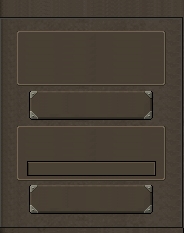
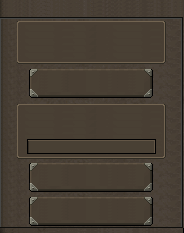
SIGIL-INFO-UI: 'Sigils Info' button in the Deadman tab (NEEDS the N108 cache round)
Panel 4 of the approved mock: a third button under Bracket Info that opens the Attuned Sigils window. To make room the
Deadman Points box is 12 rows lower and starts 10 rows higher; everything under it moves up 22 (new zz_dm_main.png, same
size and sprite id).

NOT in the cache yet and NOT seen in the test client: run N108InterfaceImportTool --apply (test server and file server
stopped) together with the build that carries this commit, then compare the tab with the mock.

Claude-Session: https://claude.ai/code/session_01FfKUn15EnwnCZxScLgeFd9

Changed region(s): [[0.0815, 0.2403, 0.9239, 0.9914], [0.0815, 0.0901, 0.9239, 0.1502]]

diff --git a/game/src/main/kotlin/gg/rsmod/game/tools/importer/N108InterfaceImportTool.kt b/game/src/main/kotlin/gg/rsmod/game/tools/importer/N108InterfaceImportTool.kt
@@ -514,11 +514,14 @@ object N108InterfaceImportTool {
         const val INFO_STRIDE = 3
         const val BACK_TEXT = INFO_FIRST + 3 * INFO_STRIDE
         const val BACK_HIT = BACK_TEXT + 1
-        const val COUNT = BACK_HIT + 1
+        /** SIGIL-INFO-UI (owner design 21-11, sigil_venster_v3.png panel 4): the Sigils Info button under Bracket Info. */
+        const val SIGILS_TEXT = BACK_HIT + 1
+        const val SIGILS_HIT = SIGILS_TEXT + 1
+        const val COUNT = SIGILS_HIT + 1
 
-        /** The bar's inside (the mock's bar 129 x 15 at panel 27,161: fill 125 x 11). */
+        /** The bar's inside (bar 129 x 15 at panel 27,139 since the Sigils Info button moved the block up 22: fill 125 x 11). */
         const val FILL_X = 29
-        const val FILL_Y = 163
+        const val FILL_Y = 141
         const val FILL_W = 125
         const val FILL_H = 11
         const val BTN = 0xDFDFDF
@@ -526,7 +529,7 @@ object N108InterfaceImportTool {
         const val BAR = 0x965500
 
         /** The "main" state's components (hidden in Points Info) and the Points Info ones. */
-        val MAIN = listOf(DP_LABEL, DP_VALUE, POINTS_TEXT, POINTS_HIT, BRK_LABEL, BRK_VALUE, FILL_CLIP, BAR_TEXT, BRACKET_TEXT, BRACKET_HIT)
+        val MAIN = listOf(DP_LABEL, DP_VALUE, POINTS_TEXT, POINTS_HIT, BRK_LABEL, BRK_VALUE, FILL_CLIP, BAR_TEXT, BRACKET_TEXT, BRACKET_HIT, SIGILS_TEXT, SIGILS_HIT)
         val INFO = (INFO_FIRST until BACK_HIT + 1).toList()
 
         fun info(i: Int) = INFO_FIRST + i * INFO_STRIDE
@@ -539,19 +542,20 @@ object N108InterfaceImportTool {
         val b = Builder(fonts)
         b.add(Comp(0, TYPE_LAYER, 0, 0, 0, 0, -1, resizeX = 1, resizeY = 1))
         b.g(DP.BG, 0, 0, 0, "zz_dm_main")
-        // Mock positions (photo 232 x 337) minus the panel's place in it (23, 62); text tops as the mock draws them.
+        // Mock positions (photo 232 x 337) minus the panel's place in it (23, 62); text tops as the mock draws them. Since the
+        // Sigils Info button (21-11): the Deadman Points box is 12 rows lower and starts 10 rows higher, the rest moved up 22.
         b.t(DP.TITLE, 1, -1, 180, 16, 0, fonts.b12, ORANGE, "78 Deadman", alignX = 1, alignY = 0)
-        b.t(DP.DP_LABEL, 17, 40, 149, 16, 0, fonts.p12, ORANGE, "Deadman Points", alignX = 1, alignY = 0)
-        b.t(DP.DP_VALUE, 17, 61, 149, 16, 0, fonts.b12, WHITE, alignX = 1, alignY = 0)
-        b.t(DP.POINTS_TEXT, 28, 99, 125, 14, 0, fonts.p11, DP.BTN, "Points Info", alignX = 1, alignY = 0)
-        b.hit(DP.POINTS_HIT, 29, 91, 125, 29, 0, "Points Info")
-        b.t(DP.BRK_LABEL, 17, 130, 149, 16, 0, fonts.p12, ORANGE, "Combat Bracket", alignX = 1, alignY = 0)
-        b.t(DP.BRK_VALUE, 17, 144, 149, 16, 0, fonts.b12, WHITE, alignX = 1, alignY = 0)
+        b.t(DP.DP_LABEL, 17, 24, 149, 16, 0, fonts.p12, ORANGE, "Deadman Points", alignX = 1, alignY = 0)
+        b.t(DP.DP_VALUE, 17, 45, 149, 16, 0, fonts.b12, WHITE, alignX = 1, alignY = 0)
+        b.t(DP.POINTS_TEXT, 28, 77, 125, 14, 0, fonts.p11, DP.BTN, "Points Info", alignX = 1, alignY = 0)
+        b.hit(DP.POINTS_HIT, 29, 69, 125, 29, 0, "Points Info")
+        b.t(DP.BRK_LABEL, 17, 108, 149, 16, 0, fonts.p12, ORANGE, "Combat Bracket", alignX = 1, alignY = 0)
+        b.t(DP.BRK_VALUE, 17, 122, 149, 16, 0, fonts.b12, WHITE, alignX = 1, alignY = 0)
         b.layer(DP.FILL_CLIP, DP.FILL_X, DP.FILL_Y, DP.FILL_W, DP.FILL_H, 0)
         b.rect(DP.FILL, -DP.FILL_W, 0, DP.FILL_W, DP.FILL_H, DP.FILL_CLIP, DP.BAR, filled = true)
-        b.t(DP.BAR_TEXT, 27, 162, 129, 14, 0, fonts.p11, ORANGE, alignX = 1, alignY = 0)
-        b.t(DP.BRACKET_TEXT, 28, 193, 125, 14, 0, fonts.p11, DP.BTN, "Bracket Info", alignX = 1, alignY = 0)
-        b.hit(DP.BRACKET_HIT, 29, 185, 125, 29, 0, "Bracket Info")
+        b.t(DP.BAR_TEXT, 27, 140, 129, 14, 0, fonts.p11, ORANGE, alignX = 1, alignY = 0)
+        b.t(DP.BRACKET_TEXT, 28, 171, 125, 14, 0, fonts.p11, DP.BTN, "Bracket Info", alignX = 1, alignY = 0)
+        b.hit(DP.BRACKET_HIT, 29, 163, 125, 29, 0, "Bracket Info")
         for (i in 0 until 3) {
             val base = DP.info(i)
             val top = 24 + i * 56
@@ -561,6 +565,8 @@ object N108InterfaceImportTool {
         }
         b.t(DP.BACK_TEXT, 28, 202, 125, 14, 0, fonts.p11, DP.BTN, "Back", alignX = 1, alignY = 0, hidden = true)
         b.hit(DP.BACK_HIT, 29, 194, 125, 29, 0, "Back", hidden = true)
+        b.t(DP.SIGILS_TEXT, 28, 205, 125, 14, 0, fonts.p11, DP.BTN, "Sigils Info", alignX = 1, alignY = 0)
+        b.hit(DP.SIGILS_HIT, 29, 197, 125, 29, 0, "Sigils Info")
         return b.done(DP.COUNT)
     }
 

diff --git a/game/plugins/src/test/kotlin/gg/rsmod/plugins/content/quests/tab/QuestTabTests.kt b/game/plugins/src/test/kotlin/gg/rsmod/plugins/content/quests/tab/QuestTabTests.kt
@@ -176,8 +176,12 @@ class QuestTabTests {
         assertEquals(listOf("Points Info"), comps.single { it.id == dp.POINTS_HIT }.ops)
         assertEquals(listOf("Bracket Info"), comps.single { it.id == dp.BRACKET_HIT }.ops)
         assertEquals(listOf("Back"), comps.single { it.id == dp.BACK_HIT }.ops)
-        // The bar's fill lies inside the Combat Bracket box of the photo (box 149 x 55 at panel 17,126).
-        assertTrue(dp.FILL_X >= 17 && dp.FILL_X + dp.FILL_W <= 17 + 149 && dp.FILL_Y >= 126 && dp.FILL_Y + dp.FILL_H <= 126 + 55)
+        // SIGIL-INFO-UI (owner design 21-11): the Sigils Info button under Bracket Info, part of the main state.
+        assertEquals(listOf("Sigils Info"), comps.single { it.id == dp.SIGILS_HIT }.ops)
+        assertTrue(dp.SIGILS_HIT in dp.MAIN && dp.SIGILS_TEXT in dp.MAIN)
+        assertEquals(comps.single { it.id == dp.BRACKET_HIT }.y + 34, comps.single { it.id == dp.SIGILS_HIT }.y)
+        // The bar's fill lies inside the Combat Bracket box (box 149 x 55 at panel 17,104 since the block moved up 22 for that button).
+        assertTrue(dp.FILL_X >= 17 && dp.FILL_X + dp.FILL_W <= 17 + 149 && dp.FILL_Y >= 104 && dp.FILL_Y + dp.FILL_H <= 104 + 55)
         assertEquals(listOf("Deadman Points", "78 Tokens", "Loyalty Points"), QuestTab.POINTS_INFO.map { it.second })
         val source = java.io.File("src/main/kotlin/gg/rsmod/plugins/content/quests/tab/QuestTab.kt").readText()
         assertTrue("StoreUi" !in source, "the tab opens no store (N280)")

diff --git a/game/plugins/src/main/kotlin/gg/rsmod/plugins/content/quests/tab/QuestTab.kt b/game/plugins/src/main/kotlin/gg/rsmod/plugins/content/quests/tab/QuestTab.kt
@@ -99,7 +99,7 @@ object QuestTab {
                     for (r in 0 until QP.ROWS) player.setInterfaceEvents(tab.panel, QP.row(r) + 1, -1..-1, EVENTS_OP1)
                     player.setInterfaceEvents(tab.panel, QP.FILTER, -1..-1, EVENTS_OP1)
                 }
-                Tab.DEADMAN -> listOf(DP.POINTS_HIT, DP.BRACKET_HIT, DP.BACK_HIT).forEach { player.setInterfaceEvents(tab.panel, it, -1..-1, EVENTS_OP1) }
+                Tab.DEADMAN -> listOf(DP.POINTS_HIT, DP.BRACKET_HIT, DP.BACK_HIT, DP.SIGILS_HIT).forEach { player.setInterfaceEvents(tab.panel, it, -1..-1, EVENTS_OP1) }
                 Tab.TASKS -> for (t in 0 until 4) player.setInterfaceEvents(tab.panel, TP.tier(t) + 7, -1..-1, EVENTS_OP1)
                 Tab.DROPS -> {
                     player.setInterfaceEvents(tab.panel, LP.VIEWER_HIT, -1..-1, EVENTS_OP1)
@@ -381,6 +381,12 @@ object QuestTab {
     fun bracketInfo(player: Player) {
         if (selected(player) != Tab.DEADMAN || !player.interfaces.isVisible(Tab.DEADMAN.panel)) return
         CombatBracketsUi.open(player)
+    }
+
+    /** The Sigils Info button: the Attuned Sigils window (SIGIL-INFO-UI, owner design 21-11). */
+    fun sigilsInfo(player: Player) {
+        if (selected(player) != Tab.DEADMAN || !player.interfaces.isVisible(Tab.DEADMAN.panel)) return
+        gg.rsmod.plugins.content.mechanics.deadman.sigils.AttunedSigilsUi.open(player)
     }
 
     /** The point rows' currencies, top to bottom (design A3). */
